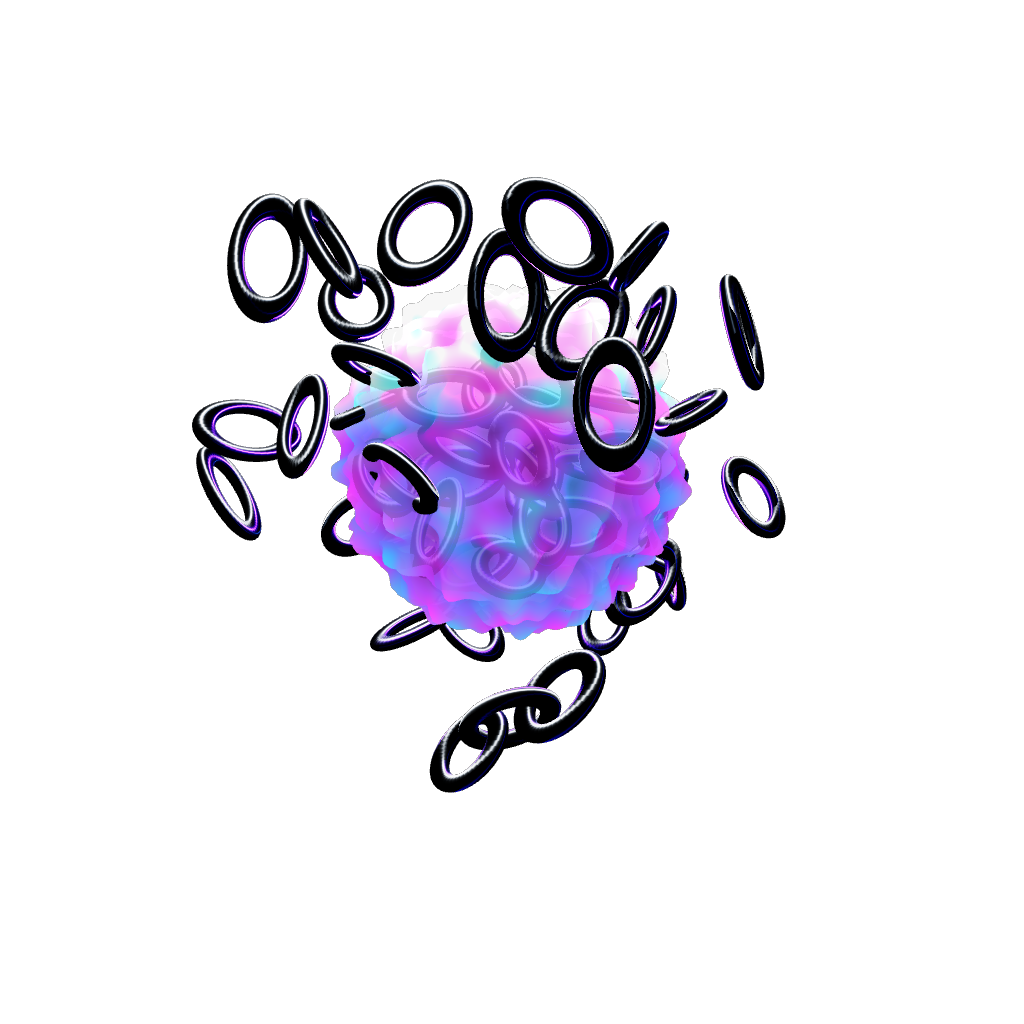
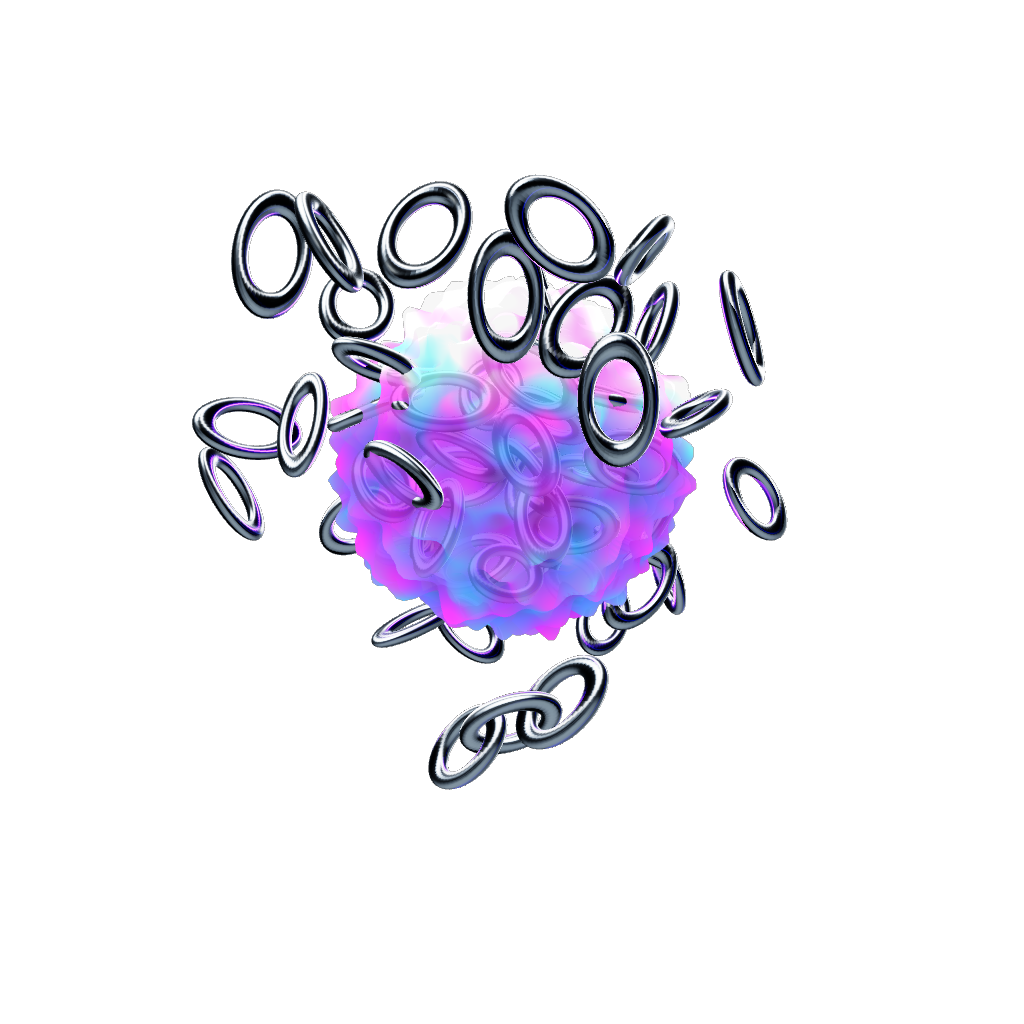
Improve still export material fidelity.
Delay PNG capture until the environment map is ready so metallic chain reflections match the live scene, and refresh the 1024 transparent export asset.

Made-with: Cursor

Changed region(s): [[0.1875, 0.1562, 0.7812, 0.7812]]

diff --git a/app/components/AIScene.tsx b/app/components/AIScene.tsx
@@ -579,7 +579,9 @@ function CaptureStillOnDemand({ enabled }: { enabled: boolean }) {
 
   useFrame((state) => {
     if (!enabled || capturedRef.current) return;
-    if (state.clock.getElapsedTime() < 1.25) return;
+    // Wait for environment map and a few frames so metal materials match live site look.
+    if (!scene.environment) return;
+    if (state.clock.getElapsedTime() < 3.5) return;
 
     capturedRef.current = true;
     gl.render(scene, camera);
